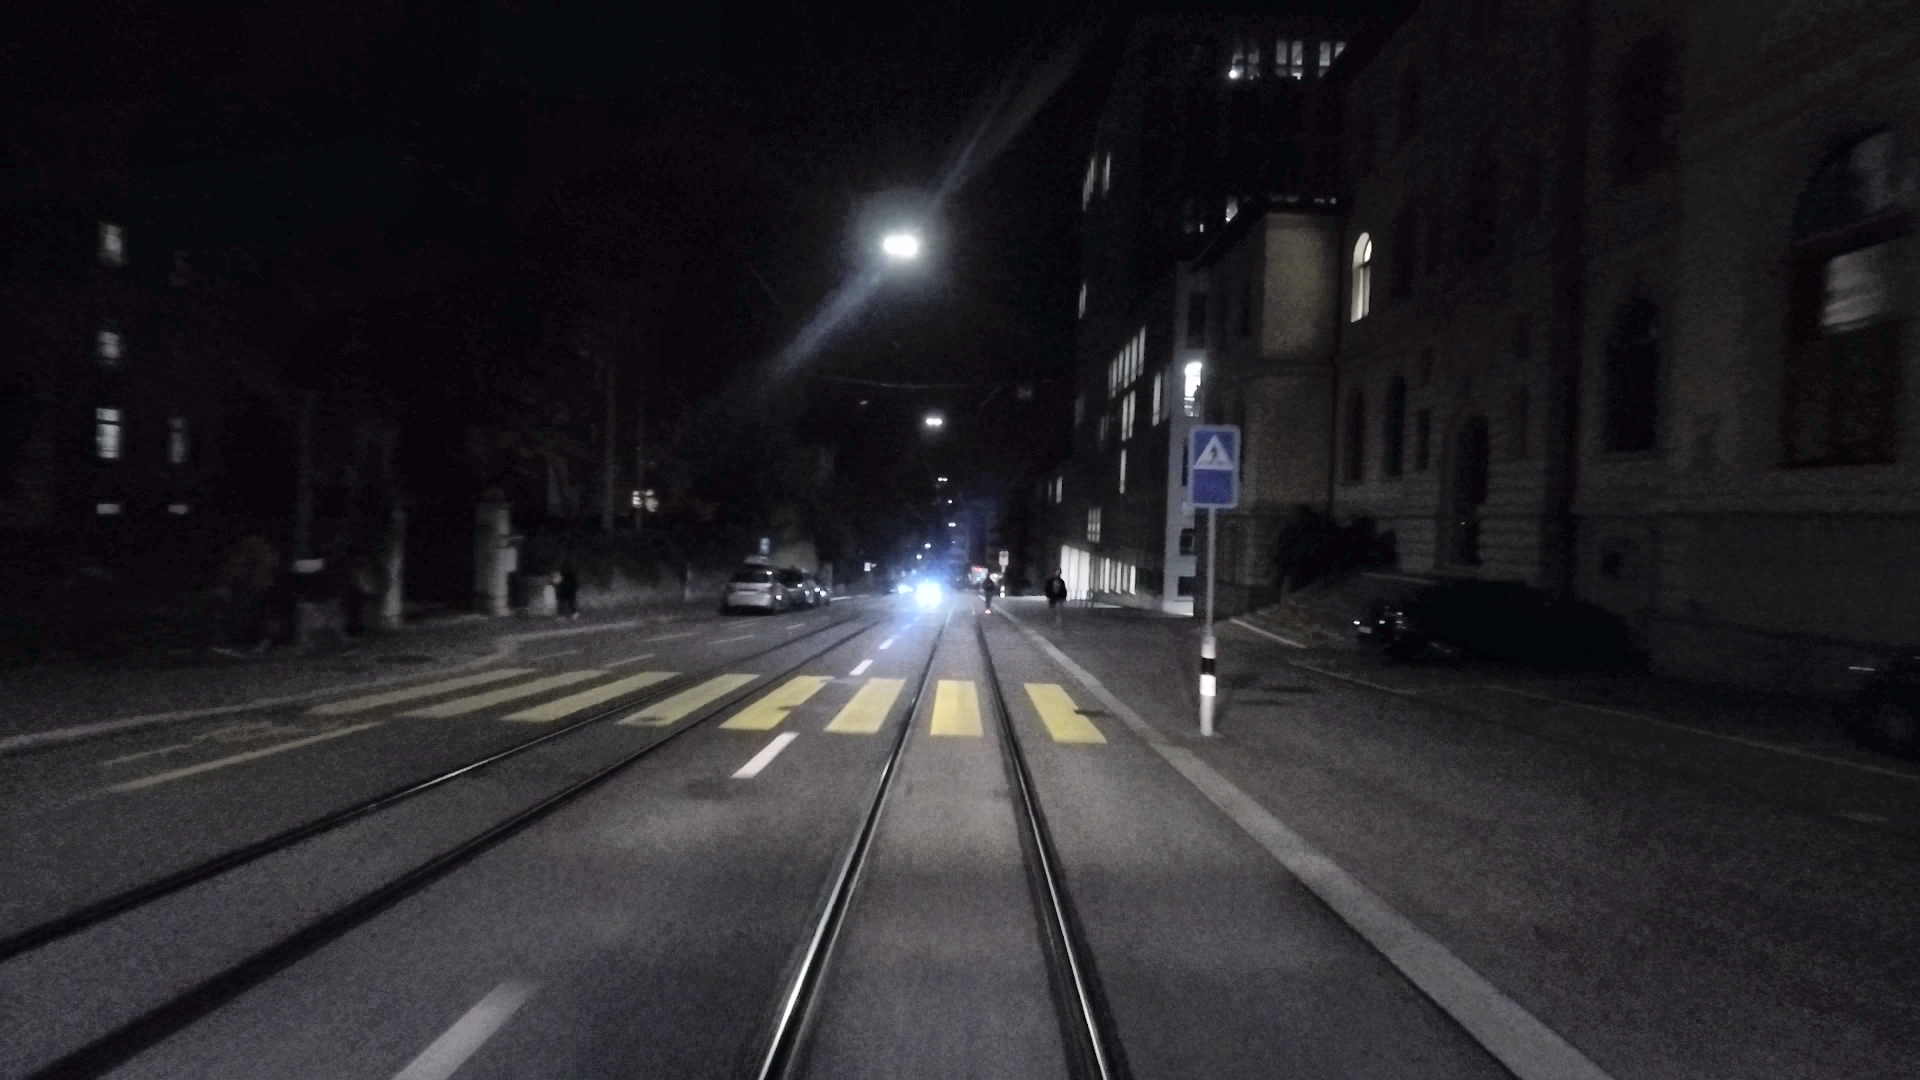
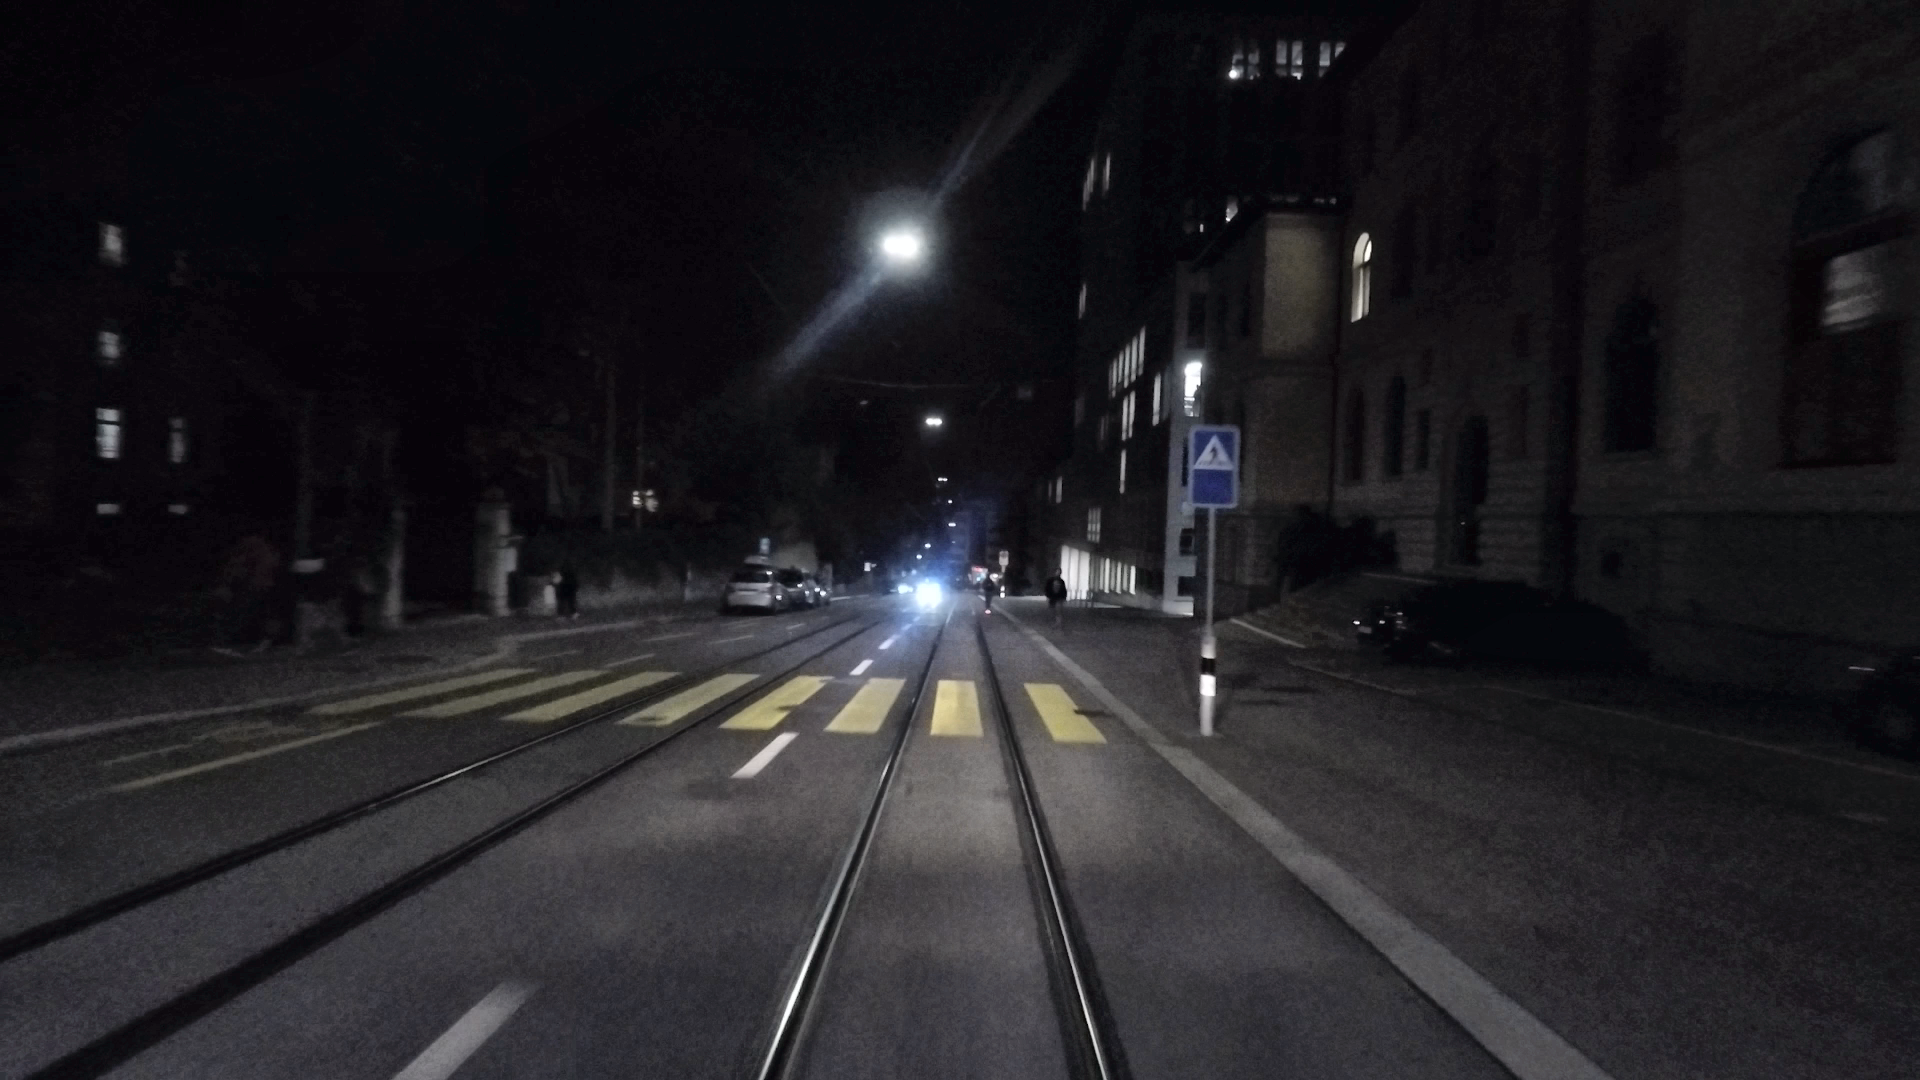
beginning hyperparameter selection phase

diff --git a/src/methods/attention.py b/src/methods/attention.py
@@ -19,27 +19,27 @@ def compute_darkness_attention(T_norm: np.ndarray, alpha: float = ILLUM_ALPHA) -
     A_d_prime = A_d ** alpha
     return A_d_prime.astype(np.float32)
 
-def map_attention_to_gamma(
-    attention: np.ndarray,
-    gamma_min: float = GAMMA_MIN,
-    gamma_max: float = GAMMA_MAX
-) -> np.ndarray:
+def map_attention_to_gamma(attention: np.ndarray) -> np.ndarray:
     """
-    Map attention values to per-pixel gamma values.
-
-    Args:
-        attention: Attention map in [0,1] (higher = darker).
-        gamma_min: Gamma at max attention (strong brightening).
-        gamma_max: Gamma at zero attention (little/no brightening).
-
-    Returns:
-        Gamma map same shape as attention.
+    Map attention to gamma in a gentler, piecewise way:
+      - Very dark (A > 0.7): gamma in [0.75, 0.85]
+      - Medium (0.3 < A <= 0.7): gamma in [0.85, 1.0]
+      - Bright (A <= 0.3): gamma ~ 1.0 (no change)
     """
-    att = np.clip(attention, 0.0, 1.0)
-    gamma_map = gamma_min + (gamma_max - gamma_min) * (1.0 - att)
-    return gamma_map.astype(np.float32)
+    A = np.clip(attention, 0.0, 1.0)
+    gamma = np.ones_like(A, dtype=np.float32)
 
-def attention_mask_for_clahe(attention: np.ndarray, thresh: float = 0.3) -> np.ndarray:
+    # medium dark
+    mask_med = (A > 0.3) & (A <= 0.7)
+    gamma[mask_med] = 0.85 + (1.0 - 0.85) * (0.7 - A[mask_med]) / (0.7 - 0.3 + 1e-6)
+
+    # very dark
+    mask_dark = A > 0.7
+    gamma[mask_dark] = 0.75 + (0.85 - 0.75) * (1.0 - A[mask_dark]) / (1.0 - 0.7 + 1e-6)
+
+    return gamma
+
+def attention_mask_for_clahe(attention: np.ndarray, thresh: float = 0.5) -> np.ndarray:
     """
     Binary mask indicating where to apply local contrast enhancement.
 

diff --git a/src/methods/enhancement.py b/src/methods/enhancement.py
@@ -42,6 +42,9 @@ def enhance_with_illumination_attention(
 
     # 2) Attention from illumination
     A = compute_darkness_attention(T_norm)
+
+    ultra_dark_mask = (T_norm < 0.05)
+
     gamma_map = map_attention_to_gamma(A)
 
     # 3) Per-pixel gamma correction
@@ -58,7 +61,10 @@ def enhance_with_illumination_attention(
     # 5) Optional attention-guided denoising
     if apply_denoising_step:
         den = bilateral_denoise(img_local)
-        img_final = attention_weighted_blend(img_local, den, A)
+        # Boost denoising weight in ultra-dark areas
+        A_boost = A.copy()
+        A_boost[ultra_dark_mask] = 1.0
+        img_final = attention_weighted_blend(img_local, den, A_boost)
     else:
         img_final = img_local
 

diff --git a/src/methods/baselines.py b/src/methods/baselines.py
@@ -21,7 +21,7 @@ def apply_histogram_equalization(img: np.ndarray) -> np.ndarray:
     rgb_eq = cv2.cvtColor(lab_eq, cv2.COLOR_LAB2RGB)
     return rgb_eq.astype(np.float32) / 255.0
 
-def apply_clahe(img: np.ndarray, clip_limit: float = 2.0, tile_grid_size=(8, 8)) -> np.ndarray:
+def apply_clahe(img: np.ndarray, clip_limit: float = 1.5, tile_grid_size=(16, 16)) -> np.ndarray:
     """
     CLAHE on luminance channel.
 

diff --git a/src/config.py b/src/config.py
@@ -10,9 +10,9 @@ RAW_GT_DIR = DATA_DIR / "raw" / "lol_gt"
 RESULTS_DIR = DATA_DIR / "results"
 
 # Method hyperparameters
-ILLUM_ALPHA = 1.5          # exponent for attention nonlinearity
-GAMMA_MIN = 0.4
-GAMMA_MAX = 1.1
+ILLUM_ALPHA = 1.2          # exponent for attention nonlinearity
+GAMMA_MIN = 0.7
+GAMMA_MAX = 1.0
 
 # Denoising parameters
 BILATERAL_SIGMA_COLOR = 50
